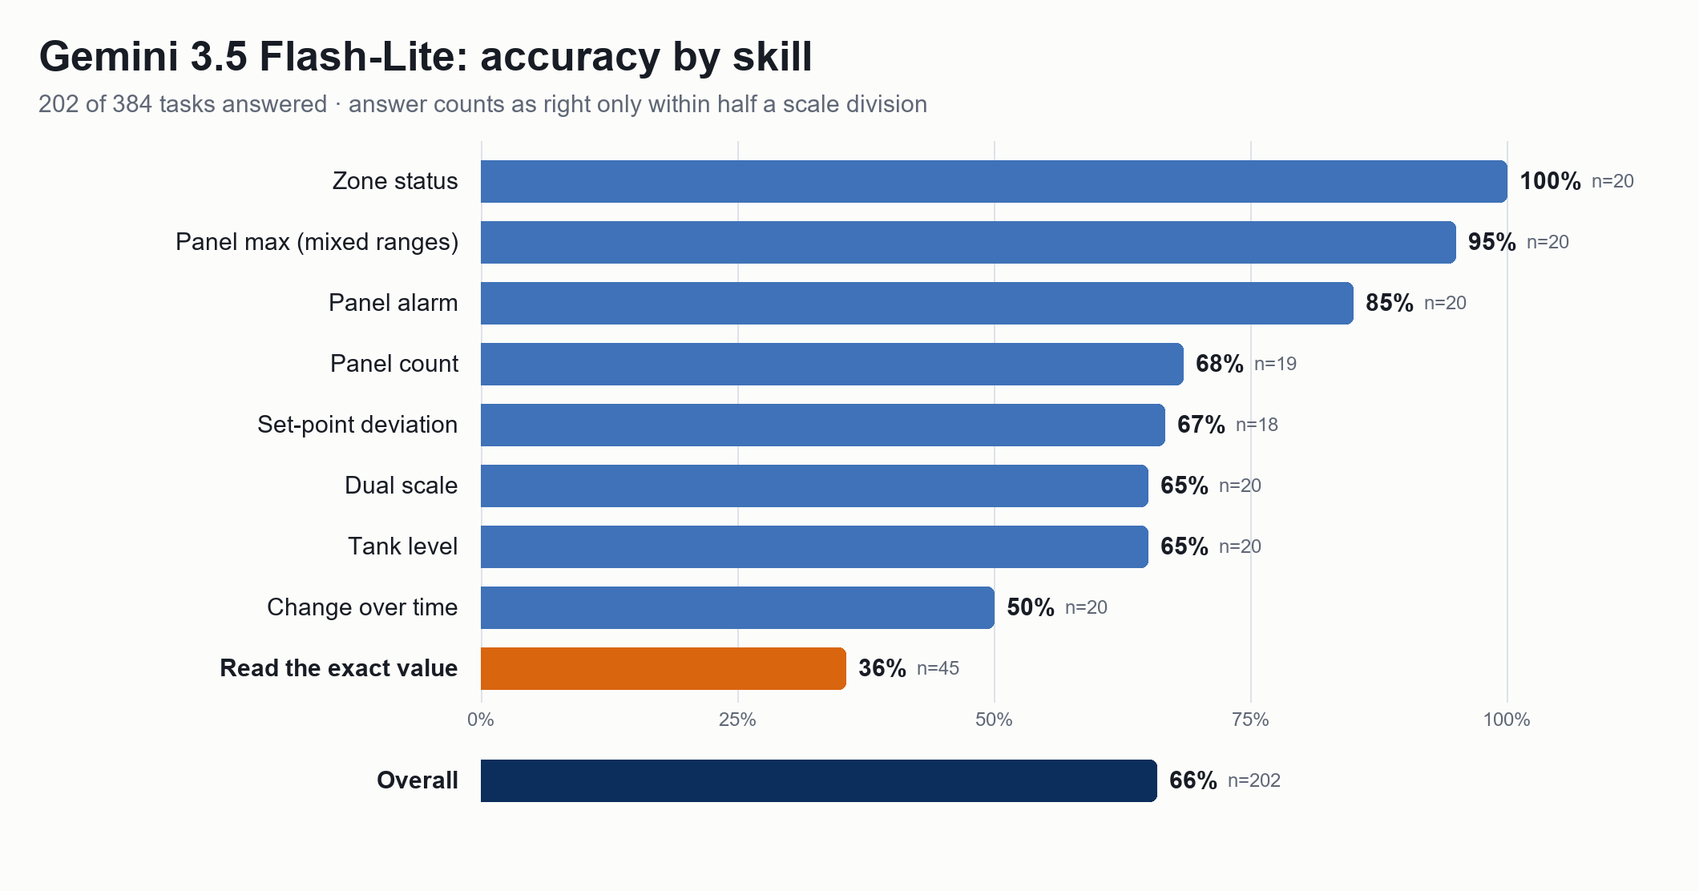
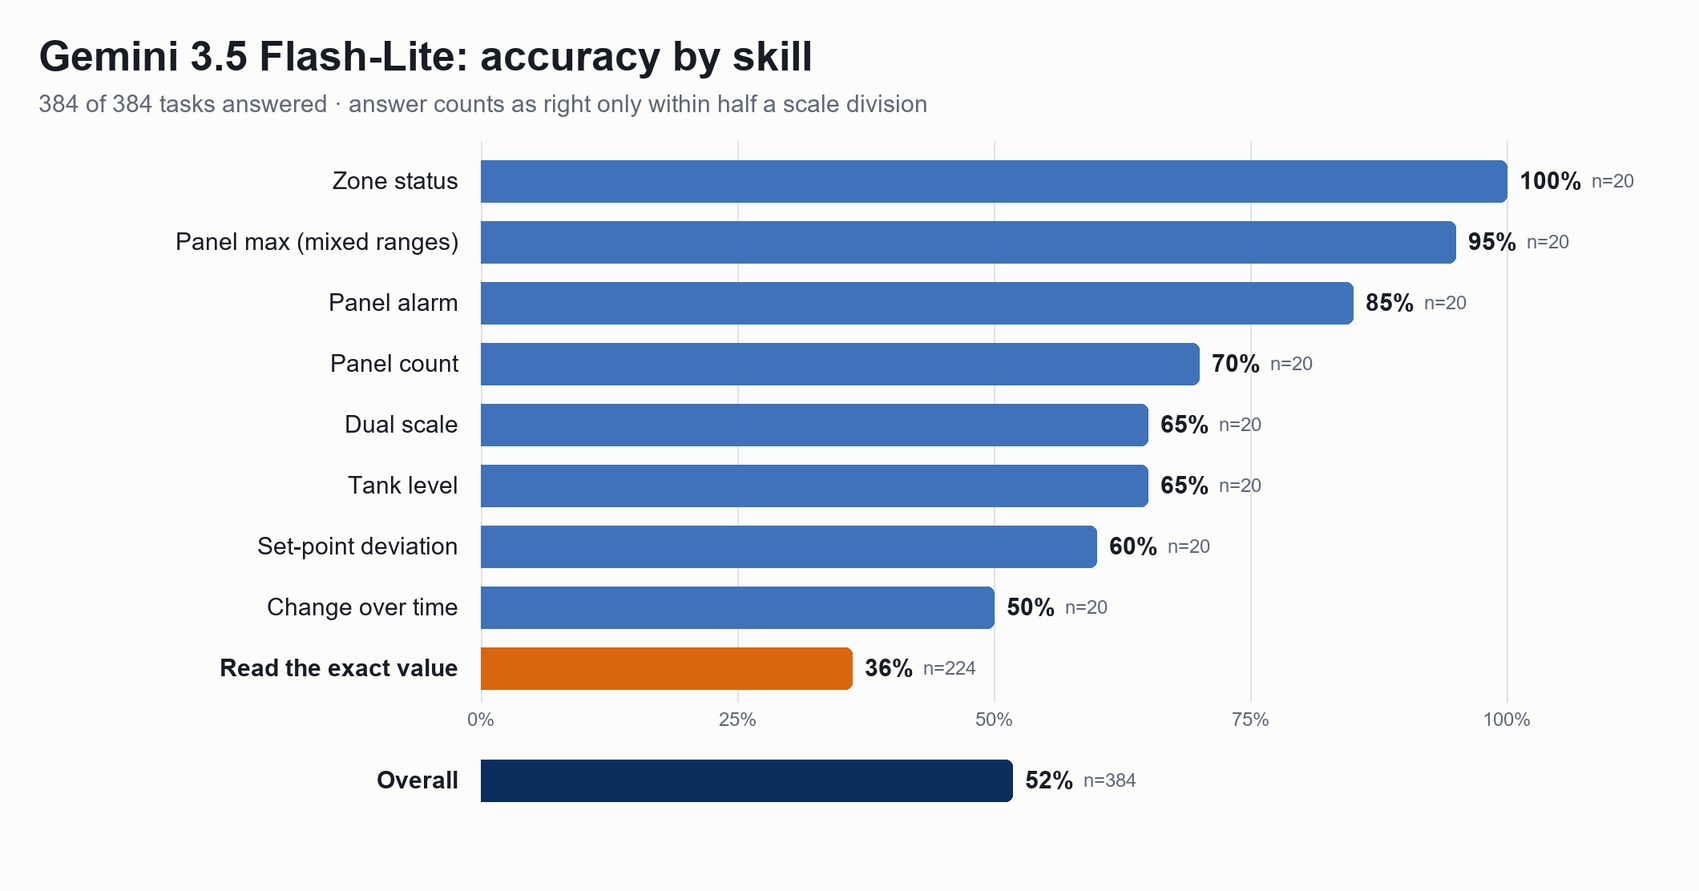
Full Gemini 3.5 Flash-Lite results: all 384 v2 tasks, 24 instrument tasks, 20 inspection rounds
- README, results chart, deck content and demo script use the final numbers
- Instruments suite results and report
- evaluate: a run with --limit or --families no longer drops answers cached outside it
  (regression test added)

diff --git a/runs/instruments/report.html b/runs/instruments/report.html
@@ -34,11 +34,38 @@ svg text{fill:var(--ink2);font-size:11px}svg .ax{stroke:var(--grid)}.ok{color:va
 <h2>Why candidates were rejected</h2><p class=sub>Every candidate image is re-read from pixels and checked for visibility and ambiguity before it is published. Rejected candidates are regenerated with a new seed.</p>
 <div class=card><svg viewBox="0 0 640 162" width="100%" role="img"><text x="0" y="19">pointers_clear_of_numbers</text><rect x="200" y="7" width="380.0" height="16" rx="4" fill="var(--s1)"><title>pointers_clear_of_numbers: 7</title></rect><text x="586.0" y="19">7</text><text x="0" y="45">needle_not_glared</text><rect x="200" y="33" width="380.0" height="16" rx="4" fill="var(--s1)"><title>needle_not_glared: 7</title></rect><text x="586.0" y="45">7</text><text x="0" y="71">pixel_reread_dials</text><rect x="200" y="59" width="217.1" height="16" rx="4" fill="var(--s1)"><title>pixel_reread_dials: 4</title></rect><text x="423.1" y="71">4</text><text x="0" y="97">vernier_alignment_resolvable</text><rect x="200" y="85" width="217.1" height="16" rx="4" fill="var(--s1)"><title>vernier_alignment_resolvable: 4</title></rect><text x="423.1" y="97">4</text><text x="0" y="123">needle_contrast</text><rect x="200" y="111" width="162.9" height="16" rx="4" fill="var(--s1)"><title>needle_contrast: 3</title></rect><text x="368.9" y="123">3</text><text x="0" y="149">reject:too many digits for the display</text><rect x="200" y="137" width="54.3" height="16" rx="4" fill="var(--s1)"><title>reject:too many digits for the display: 1</title></rect><text x="260.3" y="149">1</text></svg></div>
 <h2>Scorer sanity checks</h2><p class=sub>Reference answerers with known behaviour. Oracle must score 100%; near-miss (just outside tolerance) must score 0%; shortcut heuristics should stay low.</p>
-<div class='card scroll'><table><tr><th>Answerer</th><th>Overall</th><th>Read value</th><th>Zone status</th><th>Set-point deviation</th><th>Panel alarm</th><th>Panel max (mixed ranges)</th><th>Change over time</th><th>Dual scale</th><th>Tank level</th><th>Panel count</th><th>Clock-dial meter</th><th>Vernier caliper</th><th>Digital display</th></tr>
-<tr><td>oracle</td><td><b>100%</b></td><td>–</td><td>–</td><td>–</td><td>–</td><td>–</td><td>–</td><td>–</td><td>–</td><td>–</td><td>100%</td><td>100%</td><td>100%</td></tr>
-<tr><td>near_miss</td><td><b>0%</b></td><td>–</td><td>–</td><td>–</td><td>–</td><td>–</td><td>–</td><td>–</td><td>–</td><td>–</td><td>0%</td><td>0%</td><td>0%</td></tr>
-<tr><td>random</td><td><b>0%</b></td><td>–</td><td>–</td><td>–</td><td>–</td><td>–</td><td>–</td><td>–</td><td>–</td><td>–</td><td>0%</td><td>0%</td><td>0%</td></tr>
-<tr><td>shortcut</td><td><b>17%</b></td><td>–</td><td>–</td><td>–</td><td>–</td><td>–</td><td>–</td><td>–</td><td>–</td><td>–</td><td>0%</td><td>0%</td><td>50%</td></tr>
+<div class='card scroll'><table><tr><th>Answerer</th><th>Overall</th><th>Read value</th><th>Zone status</th><th>Set-point deviation</th><th>Panel alarm</th><th>Panel max (mixed ranges)</th><th>Change over time</th><th>Dual scale</th><th>Tank level</th><th>Panel count</th><th>Clock-dial meter</th><th>Vernier caliper</th><th>Digital display</th><th>Inspection round</th></tr>
+<tr><td>oracle</td><td><b>100%</b></td><td>–</td><td>–</td><td>–</td><td>–</td><td>–</td><td>–</td><td>–</td><td>–</td><td>–</td><td>100%</td><td>100%</td><td>100%</td><td>–</td></tr>
+<tr><td>near_miss</td><td><b>0%</b></td><td>–</td><td>–</td><td>–</td><td>–</td><td>–</td><td>–</td><td>–</td><td>–</td><td>–</td><td>0%</td><td>0%</td><td>0%</td><td>–</td></tr>
+<tr><td>random</td><td><b>0%</b></td><td>–</td><td>–</td><td>–</td><td>–</td><td>–</td><td>–</td><td>–</td><td>–</td><td>–</td><td>0%</td><td>0%</td><td>0%</td><td>–</td></tr>
+<tr><td>shortcut</td><td><b>17%</b></td><td>–</td><td>–</td><td>–</td><td>–</td><td>–</td><td>–</td><td>–</td><td>–</td><td>–</td><td>0%</td><td>0%</td><td>50%</td><td>–</td></tr>
 </table></div>
-<h2>Model results</h2><div class=card>No model runs yet. Run <code>python -m gaugebench evaluate SUITE --model claude:claude-opus-5-5</code>.</div>
+<h2>Leaderboard</h2>
+<div class=card><svg viewBox="0 0 640 32" width="100%" role="img"><text x="0" y="19">gemini-3.5-flash-lite</text><rect x="200" y="7" width="95.0" height="16" rx="4" fill="var(--s1)"><title>gemini-3.5-flash-lite: 25.0% of 24</title></rect><text x="301.0" y="19">25%</text></svg></div>
+<div class='card scroll'><table><tr><th>Model</th><th>Tasks</th><th>Overall</th><th>Read value</th><th>Zone status</th><th>Set-point deviation</th><th>Panel alarm</th><th>Panel max (mixed ranges)</th><th>Change over time</th><th>Dual scale</th><th>Tank level</th><th>Panel count</th><th>Clock-dial meter</th><th>Vernier caliper</th><th>Digital display</th><th>Inspection round</th><th>Parse fails</th></tr>
+<tr><td>gemini-3.5-flash-lite</td><td>24</td><td><b>25%</b></td><td>–</td><td>–</td><td>–</td><td>–</td><td>–</td><td>–</td><td>–</td><td>–</td><td>–</td><td>12%</td><td>0%</td><td>62%</td><td>–</td><td>0</td></tr>
+</table></div>
+<h2>Accuracy by difficulty level</h2><p class=sub>Mixed suite: level 1 = clean dial, level 5 = all factors may be hard at once.</p>
+<div class=legend><span><i style="background:var(--s1)"></i>gemini-3.5-flash-lite</span></div>
+<div class=grid><div class="card"><h3>All families</h3><svg viewBox="0 0 340 200" width="100%" role="img"><line class="ax" x1="38" x2="328" y1="166" y2="166"/><text x="32" y="170" text-anchor="end">0%</text><line class="ax" x1="38" x2="328" y1="88.0" y2="88.0"/><text x="32" y="92.0" text-anchor="end">50%</text><line class="ax" x1="38" x2="328" y1="10.0" y2="10.0"/><text x="32" y="14.0" text-anchor="end">100%</text><text x="38.0" y="188" text-anchor="middle">L1</text><text x="110.5" y="188" text-anchor="middle">L2</text><text x="183.0" y="188" text-anchor="middle">L3</text><text x="255.5" y="188" text-anchor="middle">L4</text><text x="328.0" y="188" text-anchor="middle">L5</text><polyline fill="none" stroke="var(--s1)" stroke-width="2" points="38.0,114.0 110.5,140.0 183.0,166.0 255.5,114.0 328.0,62.0"/><circle cx="38.0" cy="114.0" r="4.5" fill="var(--s1)" stroke="var(--card)" stroke-width="2"><title>gemini-3.5-flash-lite · L1: 33%</title></circle><circle cx="110.5" cy="140.0" r="4.5" fill="var(--s1)" stroke="var(--card)" stroke-width="2"><title>gemini-3.5-flash-lite · L2: 17%</title></circle><circle cx="183.0" cy="166.0" r="4.5" fill="var(--s1)" stroke="var(--card)" stroke-width="2"><title>gemini-3.5-flash-lite · L3: 0%</title></circle><circle cx="255.5" cy="114.0" r="4.5" fill="var(--s1)" stroke="var(--card)" stroke-width="2"><title>gemini-3.5-flash-lite · L4: 33%</title></circle><circle cx="328.0" cy="62.0" r="4.5" fill="var(--s1)" stroke="var(--card)" stroke-width="2"><title>gemini-3.5-flash-lite · L5: 67%</title></circle></svg></div></div>
+<h2>Capability curves (one factor at a time)</h2><p class=sub>Read-value tasks on a clean dial where exactly one visual factor is changed. A drop pinpoints the specific visual skill the model lacks.</p>
+<div class=legend><span><i style="background:var(--s1)"></i>gemini-3.5-flash-lite</span></div><div class=grid>
+</div>
+<h2>How wrong are the wrong numbers?</h2><p class=sub>Numeric answers, error measured in multiples of the allowed tolerance (1× = half a dial division). Near misses suggest imprecise reading; large errors suggest misreading the scale, multiplier or needle.</p><div class='card scroll'><table><tr><th>Model</th><th>≤1× (correct)</th><th>1–2×</th><th>2–5×</th><th>5–20×</th><th>&gt;20×</th><th>No number</th></tr>
+<tr><td>gemini-3.5-flash-lite</td><td>31%</td><td>0%</td><td>0%</td><td>0%</td><td>69%</td><td>0%</td></tr>
+</table></div>
+<h2>Failure gallery — gemini-3.5-flash-lite</h2><div class=gallery>
+<div class=card><img loading=lazy src='tasks/dial_meter-L1-0000/image.png' alt='dial_meter-L1-0000'><p><b>Clock-dial meter</b> · <code>dial_meter-L1-0000</code><br>Key: <span class=ok>8072 ± 0</span> · Model: <span class=no>7062</span></p></div>
+<div class=card><img loading=lazy src='tasks/dial_meter-L2-0001/image.png' alt='dial_meter-L2-0001'><p><b>Clock-dial meter</b> · <code>dial_meter-L2-0001</code><br>Key: <span class=ok>1386 ± 0</span> · Model: <span class=no>1486</span></p></div>
+<div class=card><img loading=lazy src='tasks/dial_meter-L3-0002/image.png' alt='dial_meter-L3-0002'><p><b>Clock-dial meter</b> · <code>dial_meter-L3-0002</code><br>Key: <span class=ok>8517 ± 0</span> · Model: <span class=no>8017</span></p></div>
+<div class=card><img loading=lazy src='tasks/dial_meter-L4-0003/image.png' alt='dial_meter-L4-0003'><p><b>Clock-dial meter</b> · <code>dial_meter-L4-0003</code><br>Key: <span class=ok>25870 ± 0</span> · Model: <span class=no>2.502e+04</span></p></div>
+<div class=card><img loading=lazy src='tasks/dial_meter-L1-0005/image.png' alt='dial_meter-L1-0005'><p><b>Clock-dial meter</b> · <code>dial_meter-L1-0005</code><br>Key: <span class=ok>8145 ± 0</span> · Model: <span class=no>7145</span></p></div>
+<div class=card><img loading=lazy src='tasks/dial_meter-L2-0006/image.png' alt='dial_meter-L2-0006'><p><b>Clock-dial meter</b> · <code>dial_meter-L2-0006</code><br>Key: <span class=ok>7245 ± 0</span> · Model: <span class=no>6255</span></p></div>
+<div class=card><img loading=lazy src='tasks/dial_meter-L3-0007/image.png' alt='dial_meter-L3-0007'><p><b>Clock-dial meter</b> · <code>dial_meter-L3-0007</code><br>Key: <span class=ok>9739 ± 0</span> · Model: <span class=no>759</span></p></div>
+<div class=card><img loading=lazy src='tasks/vernier-L1-0000/image.png' alt='vernier-L1-0000'><p><b>Vernier caliper</b> · <code>vernier-L1-0000</code><br>Key: <span class=ok>51.3 ± 0.05</span> · Model: <span class=no>53</span></p></div>
+<div class=card><img loading=lazy src='tasks/vernier-L2-0001/image.png' alt='vernier-L2-0001'><p><b>Vernier caliper</b> · <code>vernier-L2-0001</code><br>Key: <span class=ok>57.5 ± 0.05</span> · Model: <span class=no>5.9</span></p></div>
+<div class=card><img loading=lazy src='tasks/vernier-L3-0002/image.png' alt='vernier-L3-0002'><p><b>Vernier caliper</b> · <code>vernier-L3-0002</code><br>Key: <span class=ok>45.5 ± 0.05</span> · Model: <span class=no>42.6</span></p></div>
+<div class=card><img loading=lazy src='tasks/vernier-L4-0003/image.png' alt='vernier-L4-0003'><p><b>Vernier caliper</b> · <code>vernier-L4-0003</code><br>Key: <span class=ok>79.1 ± 0.05</span> · Model: <span class=no>81.3</span></p></div>
+<div class=card><img loading=lazy src='tasks/vernier-L5-0004/image.png' alt='vernier-L5-0004'><p><b>Vernier caliper</b> · <code>vernier-L5-0004</code><br>Key: <span class=ok>69.2 ± 0.05</span> · Model: <span class=no>73.6</span></p></div>
+</div>
 </main></body></html>

diff --git a/tests/test_gaugebench.py b/tests/test_gaugebench.py
@@ -425,3 +425,15 @@ def test_inspection_round_publishes_valid_tasks_and_scores_partial_credit(tmp_pa
     p = parse_round("blah\nANSWER:\nPI - 301 = 4.5;\nPI-302: 1,200\n| ALARMS: none", ["PI-301", "PI-302"])
     assert p == {"readings": {"PI-301": 4.5, "PI-302": 1200.0}, "alarms": []}
     assert parse_round("no final line here", ["PI-301"]) is None
+
+
+def test_evaluate_limit_keeps_earlier_answers(tmp_path):
+    """A partial run (--limit / --families) must never drop answers cached by an earlier run."""
+    from gaugebench.evaluate import evaluate
+    from gaugebench.models import get_model
+    generate(tmp_path, plan_suite(2, 0, ["read_value", "zone_status"], []), seed=8, log=lambda *a: None)
+    evaluate(tmp_path, get_model("oracle"), workers=1, log=lambda *a: None)
+    evaluate(tmp_path, get_model("oracle"), workers=1, limit=1, log=lambda *a: None)
+    evaluate(tmp_path, get_model("oracle"), workers=1, families=["zone_status"], log=lambda *a: None)
+    rows = (tmp_path / "results" / "oracle.jsonl").read_text(encoding="utf-8").splitlines()
+    assert len(rows) == 4

diff --git a/gaugebench/evaluate.py b/gaugebench/evaluate.py
@@ -69,8 +69,10 @@ def evaluate(suite: Path, model: Model, workers: int = 4, limit: int | None = No
             if i % 10 == 0 or i == len(futs):
                 log(f"  {i}/{len(futs)}  running acc {n_ok / i:.1%}  ({time.time() - t0:.0f}s)")
 
+    # compact the file: every cached answer is kept (also those outside --limit / --families),
+    # in manifest order, and failed attempts are dropped so the next run retries them
+    order = {t["id"]: i for i, t in enumerate(load_manifest(suite))}
     with open(out, "w", encoding="utf-8") as f:
-        for t in tasks:
-            if t["id"] in done:
-                f.write(json.dumps(done[t["id"]], ensure_ascii=False) + "\n")
+        for tid in sorted(done, key=lambda k: order.get(k, len(order))):
+            f.write(json.dumps(done[tid], ensure_ascii=False) + "\n")
     return out

diff --git a/docs/DECK_CONTENT.md b/docs/DECK_CONTENT.md
@@ -1,7 +1,7 @@
 # Deck content: GaugeBench
 
 Paste each section into the matching slide of the **official Hack2skill template** (Resources tab). The template is mandatory, so this file is content only.
-`[[ ... ]]` marks things to fill in after the real model run.
+`[[ ... ]]` marks things still to fill in.
 
 **Built deck (official template, filled in):** Google Slides copy in the team leader's Drive, titled "Larp-Maxxing | GaugeBench | Innodata Idea Submission". Update it there after the full run.
 
@@ -68,7 +68,7 @@ Three independent guards, applied to **every** task before it is published:
 - **The validator caught a real flaw:** a model miss led us to a cramped dial where the printed numbers ran together. We added an overlap check, and it now rejects those dials automatically.
 
 ## Slide 8c: Inspection rounds (in the built deck before "Results")
-Image: `docs/images/readme-round.png` (a contact sheet of 5 camera photos, each a different instrument). Side panel: the job (log every reading, flag every gauge in the red), every photo verified (re-shot if it fails), scored like a supervisor (a round passes only if everything is right), baselines: knows the key 100%, one reading off 0%, random 0% with 21 false alarms, never-alarm 0 of 31 caught. [[add Gemini's inspection-round result after the run]]
+Image: `docs/images/readme-round.png` (a contact sheet of 5 camera photos, each a different instrument). Side panel: the job (log every reading, flag every gauge in the red), every photo verified (re-shot if it fails), scored like a supervisor (a round passes only if everything is right), baselines: knows the key 100%, one reading off 0%, random 0% with 21 false alarms, never-alarm 0 of 31 caught. **Gemini 3.5 Flash-Lite: 0 of 20 perfect rounds, 32% of readings right, 16 of 31 alarms caught, 4 false alarms.**
 
 ## Slide 6: Scoring separates right from wrong
 | Reference answerer | Score |
@@ -81,32 +81,32 @@ Image: `docs/images/readme-round.png` (a contact sheet of 5 camera photos, each 
 - **Blind ablation:** the same questions sent **without the image** show the tasks need vision. [[blind score]]
 
 ## Slide 7: Results on frontier models
-*Gemini 3.5 Flash-Lite, 198 of 384 tasks answered so far (free-tier daily cap); refresh after the full run.* [[update with final numbers]]
+*Gemini 3.5 Flash-Lite, all 384 tasks answered.*
 
 | Skill | Accuracy |
 |---|---|
 | Zone status | **100%** |
 | Panel max (mixed ranges) | 95% |
 | Panel alarm | 85% |
-| Set-point deviation | 69% |
-| Panel count | 68% |
+| Panel count | 70% |
 | Dual scale | 65% |
 | Tank level | 65% |
+| Set-point deviation | 60% |
 | Change over time | 50% |
-| **Read the exact value** | **37%** |
-| **Overall** | **67%** |
+| **Read the exact value** (224 tasks incl. sweeps) | **36%** |
+| **Overall** (384 tasks; mixed tasks average 72%) | **52%** |
 
 - **Headline:** the model is near-perfect at "roughly where is the needle?" but reads the exact value correctly only about a third of the time. In a plant, the exact value is the job.
-- **It snaps to tick marks:** a needle at 4.6 bar was reported as "approximately 4". 23 of 56 wrong numbers (41%) were near misses within 2× the tolerance; only 1 was wild (>20×). The errors are imprecision, not misread scales.
-- **Difficulty barely matters:** accuracy is 72% on clean dials (level 1) and 69% on the hardest mixed dials (level 5), so the main weakness is precise reading itself, not glare or tilt.
-- **Capability curves:** accuracy as one factor gets harder (glare, tilt, scale type, …): [[1–2 key curves, after full run]]
+- **It snaps to tick marks:** a needle at 4.6 bar was reported as "approximately 4". 77 of 175 wrong numbers (44%) were near misses within 2× the tolerance; only 1 was wild (>20×). The errors are imprecision, not misread scales.
+- **Difficulty barely matters:** mixed tasks score 72% at level 1 and 67% at level 5, so the main weakness is precise reading itself, not glare or tilt.
+- **Capability curves (6 tasks per setting, a signal rather than a precise curve):** tick density matters most, 83% with 2 small divisions between labels vs 17% with 10; camera tilt drops it from 50% (none) to 17% (15° or more).
 - **Range trap:** the model avoided it. 0 of 1 wrong panel-max answers picked the furthest-turned needle.
 - **Wrong ring:** 0 of 7 wrong dual-scale answers were the other scale's reading. It finds the right ring and then misreads it.
 
 ## Slide 7b: New instruments (in the built deck after "Example tasks")
 Images from `runs/instruments`: a clock-dial meter (key 8072 kWh), a vernier caliper (key 57.5 mm), and an LCD showing 469.9 with ×10 lit (key 4699 V).
 - Each has its own independent pixel re-reader and ambiguity checks.
-- The digital display is the control: is the models' trouble analogue reading itself, or the photo? [[add Gemini's digital vs analogue accuracy after the run]]
+- The digital display is the control. **Gemini 3.5 Flash-Lite: digital display 62% (all 3 misses ignored the ×10/×100 indicator), clock-dial meter 12%, vernier 0%.** It reads digits, not analogue sub-divisions: the trouble is analogue reading itself, not the photo.
 
 ## Slide 7c: GaugeBench Studio (in the built deck after "Features")
 Screenshot: `docs/images/studio-bench.png`.

diff --git a/README.md b/README.md
@@ -29,11 +29,13 @@ Innodata AI Hackathon · Track 2: Visual Task Factory
 What this shows:
 
 - **Coarse judgements are solved.** Which colour band is the needle in? Which gauge on a panel is in alarm? The model gets these right almost every time.
-- **Precise reading is not.** Asked for the actual number, it is right about 1 time in 3. It snaps to the nearest labelled tick: a needle at 4.6 bar becomes "about 4". Its wrong numbers are close but outside tolerance, not wild guesses.
-- **Hard conditions barely matter.** Accuracy is about the same on clean dials and on the hardest tilted, glary ones. The weakness is precise reading itself, not bad photos.
+- **Precise reading is not.** Asked for the actual number, it is right about 1 time in 3 (36% of 224 tasks). It snaps to the nearest labelled tick: a needle at 4.6 bar becomes "about 4". Of 175 wrong numbers, 44% were within twice the tolerance and only 1 was off by more than 20×: imprecision, not misread scales.
+- **Hard conditions barely matter, fine ticks do.** Mixed tasks score 72% at level 1 and 67% at level 5. The clearest single factor is tick density: 83% with 2 small divisions between labels, 17% with 10 (the sweeps have 6 tasks per setting, so treat them as a signal, not a precise curve).
+- **It reads digits, not analogue sub-divisions.** On the new instruments: digital display 62% (all 3 misses ignored the ×10/×100 indicator), clock-dial meter 12%, vernier caliper 0%. The digital display is the control, so the trouble is analogue reading itself, not the photos.
+- **The whole job is out of reach.** On 20 inspection rounds it never got a round fully right: 32% of readings correct, 16 of 31 alarms caught, 4 false alarms (see [Inspection rounds](#inspection-rounds-a-job-not-a-question)).
 - **The scoring is provably fair.** An answerer that knows the key scores 100%, one that is just outside tolerance scores 0%, and random guessing scores about 7%.
 
-*Results so far cover the answered tasks shown in the chart (the free API tier has a daily limit). Every answer, with the model's reasoning, is browsable in the [live Archive](https://gaugebench-studio.onrender.com/?view=archive).*
+*All 384 tasks answered. The overall figure includes 204 single-factor sweeps of exact reading; the mixed tasks average 72%. Every answer, with the model's reasoning, is browsable in the [live Archive](https://gaugebench-studio.onrender.com/?view=archive).*
 
 ## What a task looks like
 
@@ -126,12 +128,13 @@ A single question shows whether a model can *read* a gauge. A plant needs more: 
 
 | Reference answerer | Perfect rounds | Readings right | Alarms caught | False alarms |
 |---|---|---|---|---|
+| **Gemini 3.5 Flash-Lite** | **0%** | **32%** | **16 / 31** | **4** |
 | Knows the key | 100% | 100% | 31 / 31 | 0 |
 | One reading just outside tolerance | 0% | 81% | 31 / 31 | 0 |
 | Random guessing | 0% | 7% | 10 / 31 | 21 |
 | Mid-scale guess, never raises an alarm | 0% | 2% | 0 / 31 | 0 |
 
-*20 rounds, offline reference answerers. Play one yourself in the Studio: pick **Inspection round** on the Bench.*
+*20 rounds; Gemini answered all of them. Play one yourself in the Studio: pick **Inspection round** on the Bench.*
 
 ## GaugeBench Studio: try it yourself
 

diff --git a/docs/DEMO_VIDEO_SCRIPT.md b/docs/DEMO_VIDEO_SCRIPT.md
@@ -22,7 +22,7 @@ The demo is built around **GaugeBench Studio**, because judges remember what the
 | 1:15–1:35 | **Ask Gemini** → its marker lands on the strip; open its reasoning | "Now the same image and question go to Gemini. Its answer lands on the same strip, with its reasoning. It snapped to the nearest tick: close, but outside tolerance." (If it gets it right, say so. Honesty plays well.) |
 | 1:35–1:55 | **Daily** tab: press Start, play one or two gauges quickly (or show finished tiles), point at the streak and countdown | "There's a Daily too: five gauges a day, the same for everyone, from a clean dial to a brutal one. One shot each, and you get a row of tiles to share, like a word game for instrument technicians." |
 | 1:55–2:10 | **Challenge** tab: start a 5-round challenge, play two rounds quickly (scoreboard and pips update), show the final score; then click your score in the header to open **Your record** (rank dial, per-instrument bars) | "Or go head to head with the model on real benchmark tasks: same images, same tolerance, and its recorded answers, so no API calls. Everything you play builds your record and your rank, from Trainee up to Metrologist." |
-| 2:10–2:30 | **Archive** tab (`v2` suite): gemini-3.5-flash-lite selected, family chips show accuracy; filter **Wrong**, open one task in the drawer | "Across the whole suite, Gemini is perfect at judging which colour zone a needle is in, but reads the exact value right only about a third of the time. Every wrong answer is here with the image, the key and the model's reasoning." |
+| 2:10–2:30 | **Archive** tab (`v2` suite): gemini-3.5-flash-lite selected, family chips show accuracy; filter **Wrong**, open one task in the drawer | "Across all 384 tasks, Gemini is perfect at judging which colour zone a needle is in, but reads the exact value right only about a third of the time. It reads a digital display fine, but not a vernier. And on a whole inspection round it never got everything right. Every wrong answer is here with the image, the key and the model's reasoning." |
 | 2:30–2:42 | **Open full report** from the Archive: the scorer sanity table | "And the scoring is proven fair: an answerer with the key scores 100%, one just outside tolerance scores 0%, and random guessing about 7%." |
 | 2:42–3:00 | The hosted site's address bar, then the architecture slide or README | "It's live on the web, with the API key kept on the server and usage capped. Everything is reproducible from a seed, cached so we never pay twice, and extendable to new instruments. GaugeBench shows exactly where AI can be trusted to read instruments, and where it can't. Thank you." |
 
